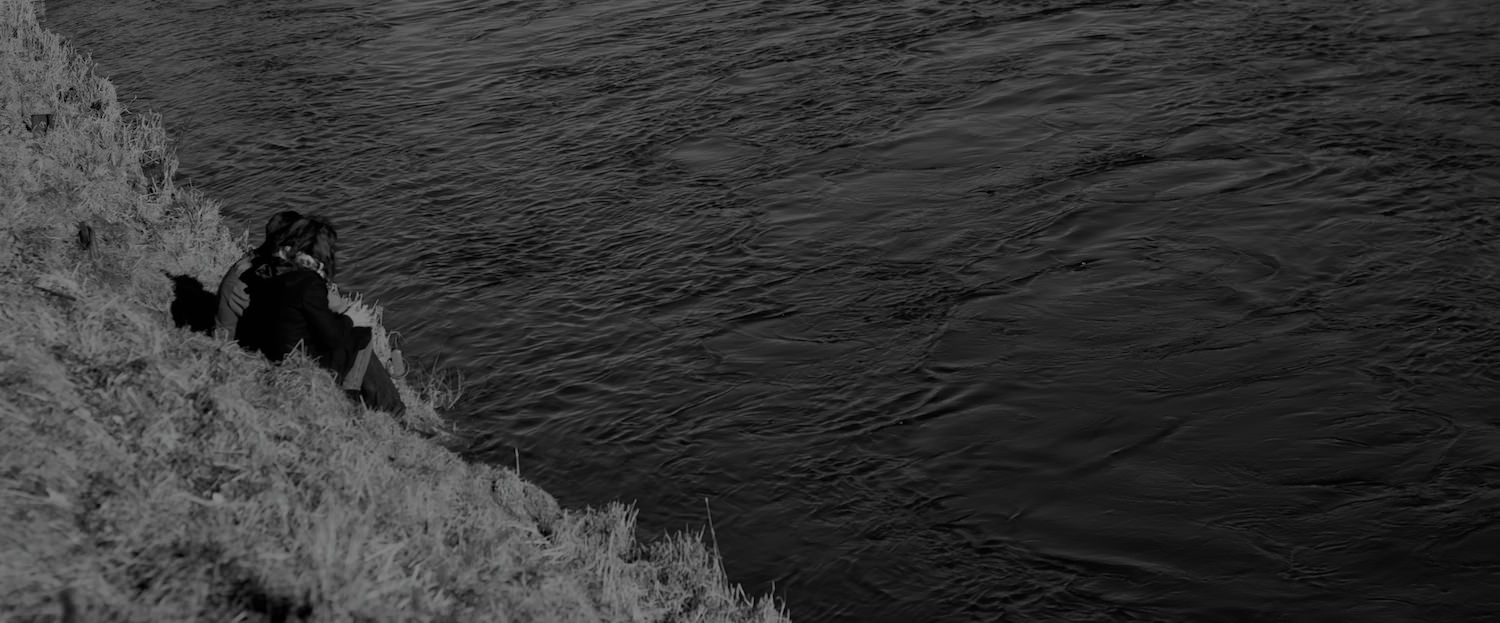
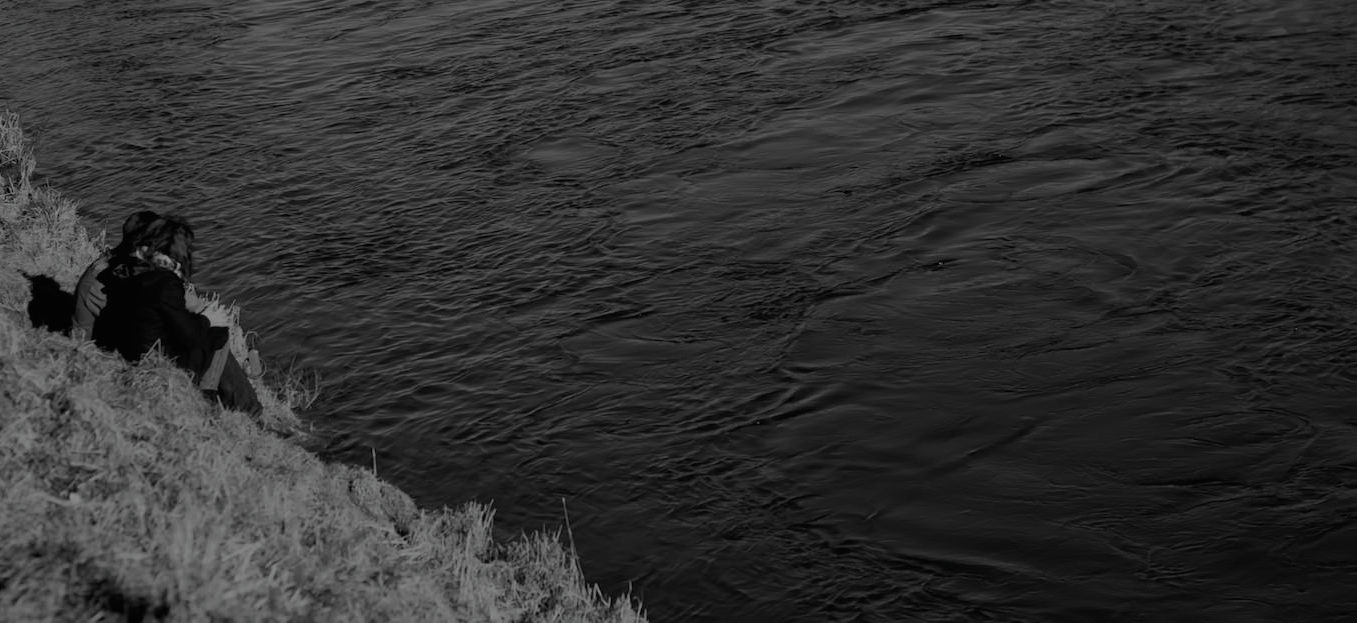
Fixing intro image into one spot

diff --git a/static/css/grayscale.css b/static/css/grayscale.css
@@ -149,7 +149,7 @@ a:focus {
 
 @media(min-width: 767px) {
     .intro {
-        background: url(../img/intro-bg.jpg) no-repeat bottom center scroll;
+        background: url(../img/intro-bg.jpg) no-repeat fixed top left;
         -webkit-background-size: cover;
         -moz-background-size: cover;
         background-size: cover;
